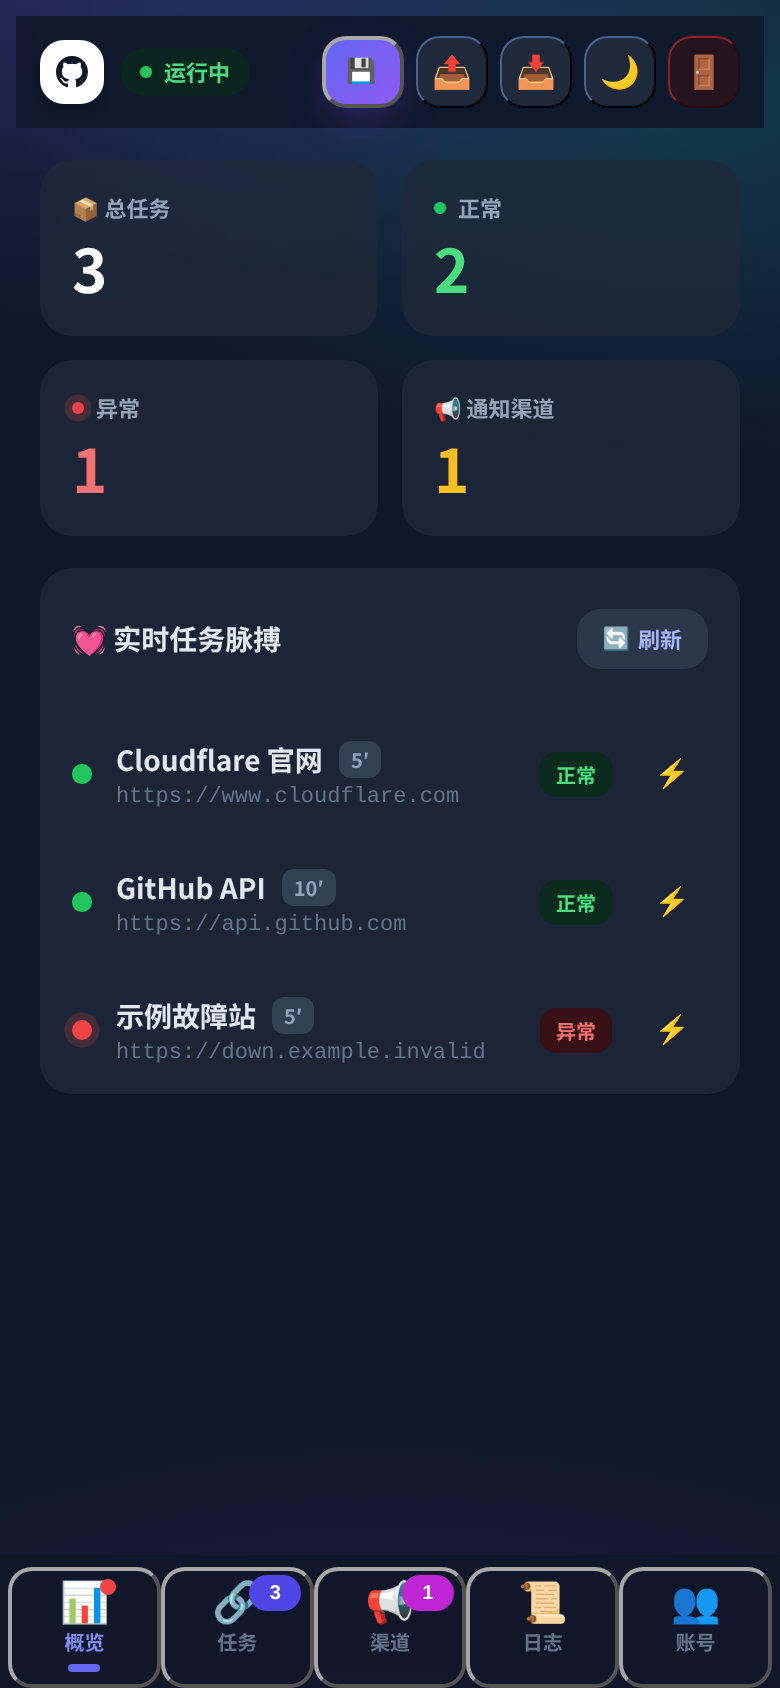
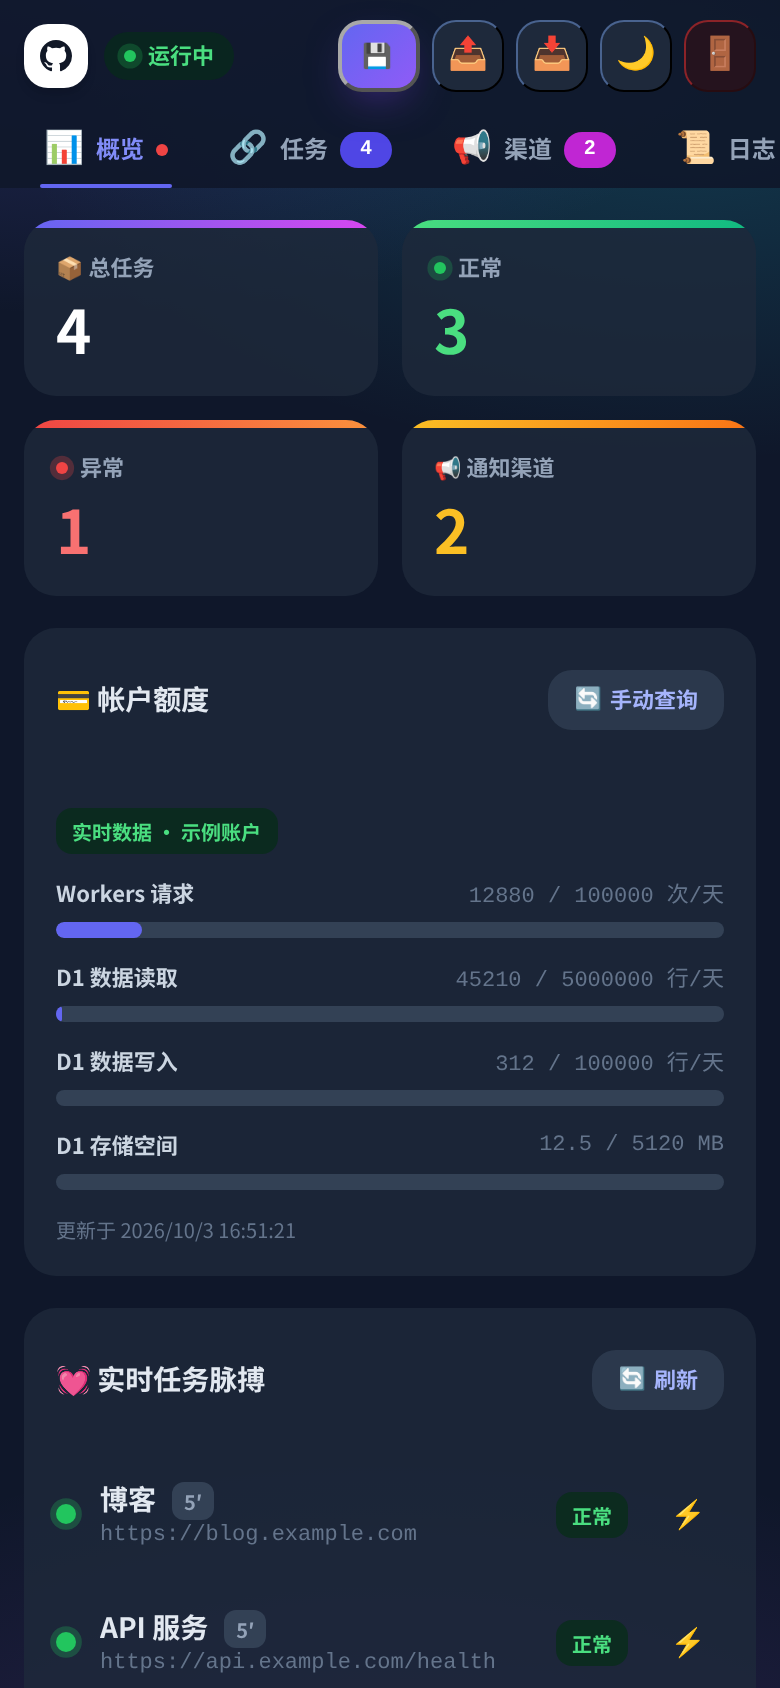
docs: README 精简重写（去原理），截图更新到 v1.2.10

diff --git a/README.md b/README.md
@@ -1,137 +1,69 @@
-# Worker-Keepalive v1.2.3
+# Worker-Keepalive
 
-站点保活管理系统（Cloudflare Worker + D1）。
-
-定时探测 URL 是否存活，挂了就按任务推送告警。自带 Web 管理面板，手机和电脑都能用。
-
-## 目录
-
-- [预览](#预览)
-- [部署](#部署)
-  - [环境变量](#环境变量)
-- [上手流程](#上手流程)
-- [各页面说明](#各页面说明)
-- [探测和通知规则](#探测和通知规则)
-- [常见问题](#常见问题)
-- [改代码后重新打包](#改代码后重新打包)
+站点保活监控：定时探测 URL 是否存活，挂了就推送告警。Cloudflare Worker + D1，单文件部署，自带 Web 管理面板，手机电脑都能用。
 
 ## 预览
 
-| | 浅色模式 | 深色模式 |
+| | 浅色 | 深色 |
 |---|---|---|
 | 电脑端登录 | ![电脑端登录（浅色）](docs/screenshots/pc-login.png) | ![电脑端登录（深色）](docs/screenshots/pc-login-dark.png) |
-| 电脑端运行概览 | ![电脑端运行概览（浅色）](docs/screenshots/pc-overview.png) | ![电脑端运行概览（深色）](docs/screenshots/pc-overview-dark.png) |
+| 电脑端概览 | ![电脑端概览（浅色）](docs/screenshots/pc-overview.png) | ![电脑端概览（深色）](docs/screenshots/pc-overview-dark.png) |
 | 移动端登录 | ![移动端登录（浅色）](docs/screenshots/mobile-login.png) | ![移动端登录（深色）](docs/screenshots/mobile-login-dark.png) |
-| 移动端运行概览 | ![移动端运行概览（浅色）](docs/screenshots/mobile-overview.png) | ![移动端运行概览（深色）](docs/screenshots/mobile-overview-dark.png) |
+| 移动端概览 | ![移动端概览（浅色）](docs/screenshots/mobile-overview.png) | ![移动端概览（深色）](docs/screenshots/mobile-overview-dark.png) |
 
 ## 部署
 
-**方式一：复制代码（最简单）**
+**方式一：复制代码**
 
-1. 打开 `worker.js` 全选复制（约 320KB，Vue + 样式已内联，零外部依赖）
-2. Cloudflare 面板 → Workers → 创建 → 粘贴代码 → 部署
-3. 绑定 D1：变量名必须叫 `DB`（表会自动建，不用手动执行 SQL）
-4. 添加 Cron Trigger，例如 `*/5 * * * *`
-5. 设置变量后重新部署，打开域名用 Root 账号登录
+1. 复制 `worker.js`（Vue + 样式已内联，零外部依赖）
+2. Cloudflare → Workers → 粘贴 → 部署
+3. 绑定 D1，变量名必须叫 `DB`（表自动建）
+4. 加 Cron Trigger（如 `*/5 * * * *`），设好环境变量后重新部署
 
 **方式二：wrangler**
 
 ```bash
 git clone https://github.com/replycore/Worker-Keepalive.git
 cd Worker-Keepalive
-npx wrangler d1 create keepalive-db
-# 把输出的 database_id 填入 wrangler.toml
+npx wrangler d1 create keepalive-db   # database_id 填入 wrangler.toml
 npx wrangler secret put ADMIN_USER
 npx wrangler secret put ADMIN_PASS
 npx wrangler deploy
 ```
 
-### 环境变量
-
 | 变量 | 说明 | 默认 |
 |---|---|---|
-| `ADMIN_USER` | Root 账号 | `admin` |
-| `ADMIN_PASS` | Root 密码；换了之后所有已登录会被踢下线 | `admin` |
-| `LOG_LEVEL` | 日志记录范围：`all` 全部记，`failed` 只记失败，`off` 不记 | `failed` |
+| `ADMIN_USER` / `ADMIN_PASS` | Root 账号密码 | `admin` / `admin` |
+| `LOG_LEVEL` | 日志范围：`all` / `failed` / `off` | `failed` |
 
-首次部署后立刻把 `admin / admin` 改掉。
+首次部署后立刻改掉默认密码。
 
-## 上手流程
+## 使用
 
-1. 登录 → 2.「通知渠道」页添加推送渠道 → 3.「保活任务」页添加任务并勾选渠道 → 4. 点右上角「💾 保存配置」
+1. 「通知渠道」添加推送方式（Telegram / Bark / PushPlus / 钉钉 / 飞书 / 邮件等 10 种）
+2. 「保活任务」添加网址，勾选通知渠道
+3. 点右上角「💾 保存配置」——增删改后都要点保存，否则刷新丢失
 
-**增删改任务、渠道后都要点「保存配置」才会真正写入 D1**，否则刷新就丢了。页面有未保存的修改时会显示"更改待保存"。
+只在状态变化时推送（挂了告警、恢复通知），不会重复轰炸。点 ⚡ 可手动立即探测一次。
 
-## 各页面说明
+## 多账号
 
-### 运行概览
+- Root 可建子账号，各账号的任务、渠道、日志完全隔离、互不可见
+- 删除子账号会同时清除它的全部数据，保存前二次确认
+- 子账号可看帐户额度，不可改 Cloudflare API 配置
 
-- 四张统计卡：总任务 / 正常 / 异常 / 通知渠道
-- 任务脉搏：每个任务一行，显示状态、间隔和上次探测时间，点 ⚡ 可单独手动探测
-- 「上次探测」每 60 秒自动刷新一次，不用手动点刷新
-- 💳 帐户额度卡：登录后自动查询一次，右上角可手动刷新；未在「账号」页配置 Cloudflare API 时不显示
+## 帐户额度
 
-### 保活任务
-
-- 字段：任务名称、完整 URL（带 http(s)://）、轮询间隔（分钟）、通知渠道（可多选）
-- 新增表单在页面顶部的折叠面板里；每张任务卡片上有探测 / 编辑 / 删除三个按钮
-- 勾选多张卡片后可以「批量渠道」一次性分配通知渠道，或批量删除
-- 手动点 ⚡ 探测：立即请求一次 URL，更新状态和上次探测时间，结果用弹窗告诉你
-- 状态为 down 的任务会显示红色「故障中」
-
-### 通知渠道
-
-共 10 种，每种要填的不一样，添加后建议先点「测试」确认能收到：
-
-| 类型 | 要填的 |
-|---|---|
-| Telegram 机器人 | Bot Token、Chat ID |
-| Bark | Device Key（自建服务器可填 URL） |
-| PushPlus | Token |
-| NotifyX | API 密钥 |
-| 钉钉 / 飞书 | Webhook URL（加签 Secret 选填） |
-| Resend 邮件 | API Key、发件邮箱、收件邮箱 |
-| Gotify | Server URL、App Token |
-| Ntfy | Server URL、Topic |
-| 自定义 Webhook | URL（Headers JSON 选填） |
-
-### 运行日志
-
-- 每个账号各保留最近 100 条，多的自动删最早的
-- 每条有时间、任务名、正常/异常、详情、触发方式（自动 / 手动）
-- 右上角可按「日志范围」切换 `LOG_LEVEL`，可一键清空
-
-### 系统账号（多租户）
-
-- Root 账号来自环境变量 `ADMIN_USER`，只能在这里看，不能改
-- 可以添加 / 删除子账号，子账号名不能和 Root 同名
-- 每个账号的任务、通知渠道、日志完全隔离：子账号只能看到和操作自己的，看不到别人的；每条任务/日志都标记所属账号
-- 子账号可以查看帐户额度卡，但不能修改 Cloudflare API 配置（「账号」页仅 Root 可见）；可以清空自己任务的日志
-- Root 可在任务页、日志页用「👤 按账号查看」下拉框分账号查看全部数据；按某账号过滤时保存/导入/清空只影响该账号
-- 登录 Session 有效期 7 天；`ADMIN_PASS` 一换，所有人都要重新登录
-- ☁ Cloudflare API：在「账号」页填写 Account ID 与 API Token（Token 只存 D1，面板上留空表示不修改），可测试连接；配置后「运行概览」的帐户额度显示真实数据。Token 权限：必需"帐户分析"读取（查 Workers 请求数）；可选"帐户设置"读取（显示账户名，没有也能用）
-
-## 探测和通知规则
-
-- 定时任务按 Cron 触发（默认每 5 分钟）；每个任务按自己的「轮询间隔」决定这次轮不轮到它
-- 探测就是 GET 请求一次 URL，HTTP 2xx 算正常，其他都算异常；每次探测都会更新状态和「上次探测」时间
-- **只在状态变化时推送**：正常→异常发告警，异常→恢复发通知；一直挂着不会重复轰炸，一直正常不打扰
-- **失败日志按阶梯记录**：连续失败只在第 1 / 3 / 33 / 333 … 次记一条（注明"连续第 N 次失败"），其余跳过，避免离线日志风暴
-- **连续失败满 7 天自动停跑**：不再请求该任务 URL，任务卡片显示"已暂停"；点 ⚡ 手动探测可恢复（成功则清零，失败则从第 1 次重新计）
-- 手动探测同样遵守通知规则，每次都会记一条日志
+「账号」页填 Cloudflare Account ID + API Token（需要"帐户分析"读取权限），「运行概览」显示 Workers / D1 真实用量。
 
 ## 常见问题
 
-- **页面一直转圈**：8 秒还没加载出来会显示红色提示，刷新重试即可
-- **API 报 500 `D1 database not bound`**：D1 没绑定或变量名不是 `DB`
-- **子账号密码是哈希存 D1 的**（SHA-256 + 随机 salt）；要对外暴露请在前面加 Cloudflare Access
+- 页面一直转圈：8 秒后会出红色提示，刷新重试
+- `D1 database not bound`：D1 变量名必须是 `DB`
+- 要对外暴露：在前面加 Cloudflare Access
 
 ## 改代码后重新打包
 
-只改了 `worker.js` 里的前端/后端逻辑后执行（需要先 `npm i`）：
-
 ```bash
-npm run build
+npm i && npm run build
 ```
-
-直接用 zip 包部署的用户：改完重新打包 `worker.js` 即可，复制即部署。
